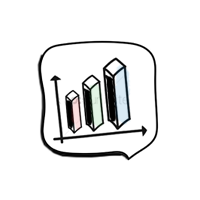
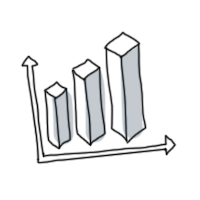
color change and new illustrations

Changed region(s): [[0.09, 0.15, 0.9, 0.84]]

diff --git a/css/main.css b/css/main.css
@@ -70,7 +70,7 @@ html, body {
   height: 100%;
   font-family: "Montserrat";
   -webkit-font-smoothing: antialiased;
-  color: #252525;
+  color: #142734;
   font-weight: 400;
 }
 
@@ -115,14 +115,14 @@ section {
   font-size: 30px;
   line-height: 30px;
   margin-bottom: 10px;
-  color: #28b222;
+  color: #142734;
   letter-spacing: -0.75px;
 }
 .col-75 h4 {
   font-size: 20px;
   line-height: 30px;
   margin-bottom: 20px;
-  color: #252525;
+  color: #6d8395;
   letter-spacing: -0.75px;
 }
 .col-75 p {
@@ -137,8 +137,8 @@ section {
   padding: 0 30px;
   border: none;
   border-radius: 8px;
-  background: #252525;
-  color: white;
+  background: #dde416;
+  color: #142734;
   font-size: 20px;
   line-height: 50px;
   font-weight: 700;
@@ -164,8 +164,8 @@ header .btn_primary {
   position: absolute;
   right: 0px;
   top: 35px;
-  background: #28b222;
-  color: white;
+  background: #142734;
+  color: #dde416;
 }
 
 .main-content {
@@ -184,30 +184,30 @@ h3.main-content_heading {
 }
 
 .green_text {
-  color: #28b222;
+  color: #dde416;
 }
 
 .hero {
   position: relative;
   width: 100%;
   height: 100%;
-  max-height: 650px;
-  min-height: 650px;
+  max-height: 600px;
+  min-height: 600px;
   background: #ebebeb url(../img/drivers.png) no-repeat bottom center;
   color: white;
 }
 .hero .hero-copy {
   position: absolute;
   width: 100%;
-  bottom: 320px;
+  bottom: 310px;
   text-align: center;
 }
 .hero .hero-copy h2 {
-  font-size: 45px;
-  line-height: 55px;
-  max-width: 850px;
+  font-size: 42px;
+  line-height: 52px;
+  max-width: 750px;
   margin: 0 auto 0 auto;
-  color: #252525;
+  color: #142734;
   letter-spacing: -0.75px;
 }
 .hero .hero-copy img {
@@ -219,7 +219,7 @@ h3.main-content_heading {
 
 .contact-form {
   padding: 140px 0;
-  background: #252525;
+  background: #142734;
   text-align: center;
 }
 .contact-form h3 {
@@ -258,7 +258,7 @@ h3.main-content_heading {
   height: 60px;
   line-height: 60px;
   padding: 0 50px;
-  background: #28b222;
+  background: #dde416;
   margin-top: 30px;
 }
 

diff --git a/sass/_globals.scss b/sass/_globals.scss
@@ -111,7 +111,7 @@ section{
         font-size:20px;
         line-height:30px;
         margin-bottom:20px;
-        color:$blue;
+        color:#6d8395;
         letter-spacing:-0.75px;
     }
     p{
@@ -127,8 +127,8 @@ section{
     padding:0 30px;
     border:none;
     border-radius:8px;
-    background:$blue;
-    color:white;
+    background:$yellow;
+    color:$blue;
     font-size:20px;
     line-height:50px;
     font-weight:700;
@@ -153,8 +153,8 @@ header{
         position:absolute;
         right:0px;
         top:35px;
-        background:$blue_light;
-        color:white;
+        background:$blue;
+        color:$yellow;
     }
 }
 footer{
@@ -175,25 +175,25 @@ h3.main-content_heading{
     letter-spacing:-0.75px;
 }
 .green_text{
-    color:$blue_light;
+    color:$yellow;
 }
 .hero{
     position:relative;
     width:100%;
     height:100%;
-    max-height:650px;
-    min-height:650px;
+    max-height:600px;
+    min-height:600px;
     background:#ebebeb url(../img/drivers.png) no-repeat bottom center;
     color:white;
     .hero-copy{
         position:absolute;
         width:100%;
-        bottom:320px;
+        bottom:310px;
         text-align:center;
         h2{
-            font-size:45px;
-            line-height:55px;
-            max-width:850px;
+            font-size:42px;
+            line-height:52px;
+            max-width:750px;
             margin:0 auto 0 auto;
             color:$blue;
             letter-spacing:-0.75px;
@@ -247,7 +247,7 @@ h3.main-content_heading{
         height:60px;
         line-height:60px;
         padding:0 50px;
-        background:$blue_light;
+        background:$yellow;
         margin-top:30px;
     }
 }

diff --git a/index.html b/index.html
@@ -18,7 +18,7 @@
 	<header>
 		<div class="container">
 			<div class="logo"><img src="img/hta-logo.png" height="120px"></div>
-		    <button class="btn_primary">Free Consultation</button>	
+		    <button class="btn_primary">Let's Talk</button>	
 		</div>
 	</header>
 		
@@ -123,7 +123,7 @@ every dollar you spend.
 	    			<div class="field"><input type="text" placeholder="Your name"></div>
 	    			<div class="field"><input type="text" placeholder="Company name"></div>
 	    			<div class="field"><input type="text" placeholder="Phone(optional)"></div>
-	    			<div class="field"><button class="btn_primary" type"submit">Contact Me</button></div>
+	    			<div class="field"><button class="btn_primary" type="submit">Let's Talk</button></div>
 	    		</form>
 	    		
 	    	</div>

diff --git a/sass/_variables.scss b/sass/_variables.scss
@@ -1,6 +1,6 @@
 $easeOutExpo:cubic-bezier(0.19, 1, 0.22, 1); /* easeOutExpo */
 $easeInOutExpo:cubic-bezier(1.000, 0.000, 0.000, 1.000); /* easeInOutExpo */
-$blue:#252525;
-$blue_light:#28b222;
+$blue:#142734;
+$blue_light:#142734;
 $gray:#afb2b7;
-$yellow:#6bbb48;
+$yellow:#dde416;
